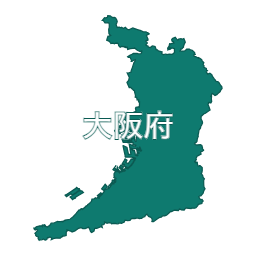
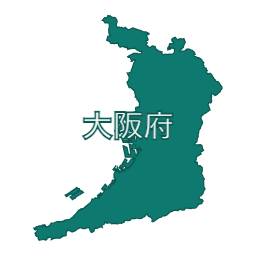
Double text stroke width again and optimize sample generation
- Update Canvas text stroke width from 0.03 to 0.06 (4x original)
- Update SVG text stroke width from 0.004 to 0.008 (4x original)
- Optimize generate-samples.sh to remove redundant initial icon generation
- Regenerate all sample icons with thicker text stroke for maximum readability

🤖 Generated with [Claude Code](https://claude.ai/code)

Changed region(s): [[0.3125, 0.4062, 0.6875, 0.5625]]

diff --git a/src/index.js b/src/index.js
@@ -389,7 +389,7 @@ class PrefectureIconGenerator {
       
       // Draw text stroke (outline) first
       ctx.strokeStyle = this.options.edgeColor;
-      ctx.lineWidth = size * 0.03; // Outline thickness relative to icon size (increased for better visibility)
+      ctx.lineWidth = size * 0.06; // Outline thickness relative to icon size (increased for better visibility)
       ctx.strokeText(prefName, cx, cy);
       
       // Draw text fill on top of stroke
@@ -445,7 +445,7 @@ class PrefectureIconGenerator {
 
     // Generate text element only if showText is enabled
     const textElement = this.options.showText ? `
-  <text x="${cx}" y="${cy}" fill="${this.options.textColor}" stroke="${this.options.edgeColor}" stroke-width="${size * 0.004}" font-size="${size * this.options.textSize}" font-weight="bold" text-anchor="middle" dominant-baseline="middle" font-family="sans-serif">
+  <text x="${cx}" y="${cy}" fill="${this.options.textColor}" stroke="${this.options.edgeColor}" stroke-width="${size * 0.008}" font-size="${size * this.options.textSize}" font-weight="bold" text-anchor="middle" dominant-baseline="middle" font-family="sans-serif">
     ${prefName}
   </text>` : '';
 
